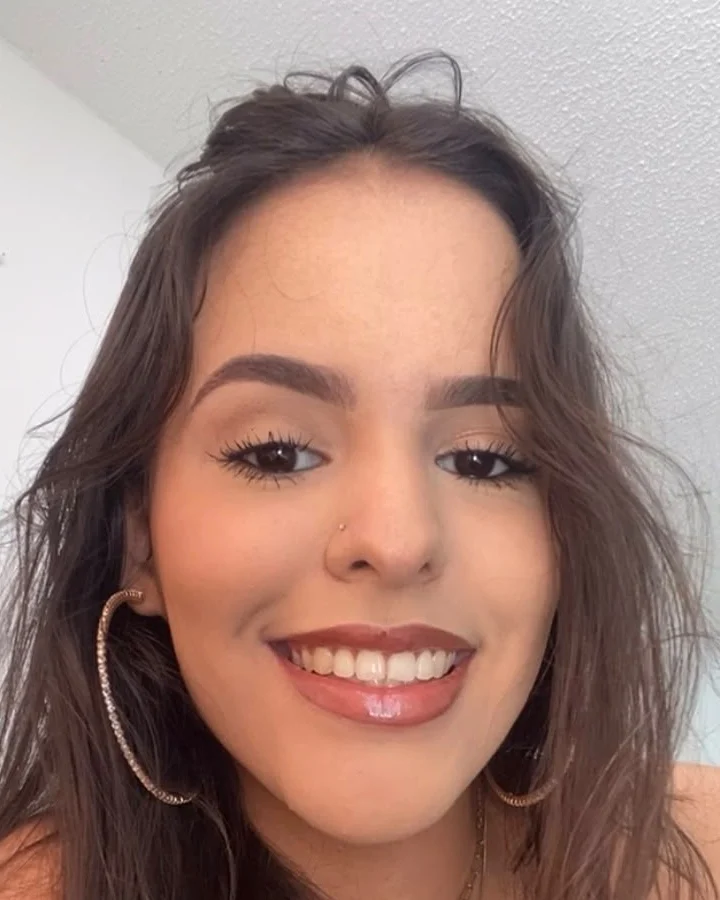
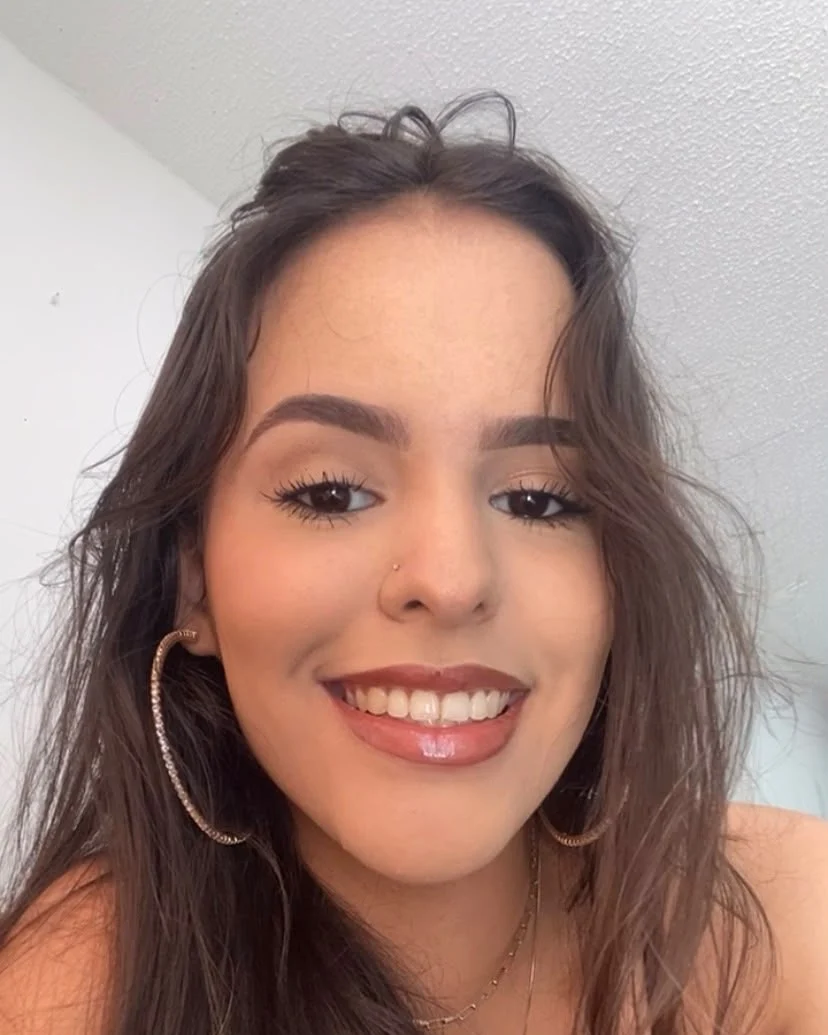
Sobre: retrato da Eduarda mais aberto
Claude-Session: https://claude.ai/code/session_01CQ7NdCMvkY4bDfjS1usTTK

diff --git a/index.html b/index.html
@@ -398,7 +398,7 @@ document.readyState==='loading'?addEventListener('DOMContentLoaded',go):go();})(
   <div class="wrap about">
     <div class="portrait rv" id="portrait">
       <img class="ph is-on" data-p="yago" src="assets/img/yago-portrait.webp" width="960" height="1200" alt="Yago Moreira" loading="lazy">
-      <img class="ph" data-p="eduarda" src="assets/img/eduarda-portrait.webp" width="720" height="900" alt="Eduarda Moreira" loading="lazy">
+      <img class="ph" data-p="eduarda" src="assets/img/eduarda-portrait.webp?v=2" width="828" height="1035" alt="Eduarda Moreira" loading="lazy">
       <div class="pt-top"><span class="label">São Paulo, Brasil</span><img class="pt-logo" src="assets/img/logo-white.png?v=2" width="444" height="262" alt="YE Studios"></div>
       <div class="pt-cap"><span class="label" data-cap="yago">Cofundador · Design</span><span class="label" data-cap="eduarda" hidden>Cofundadora · Comercial</span></div>
     </div>
